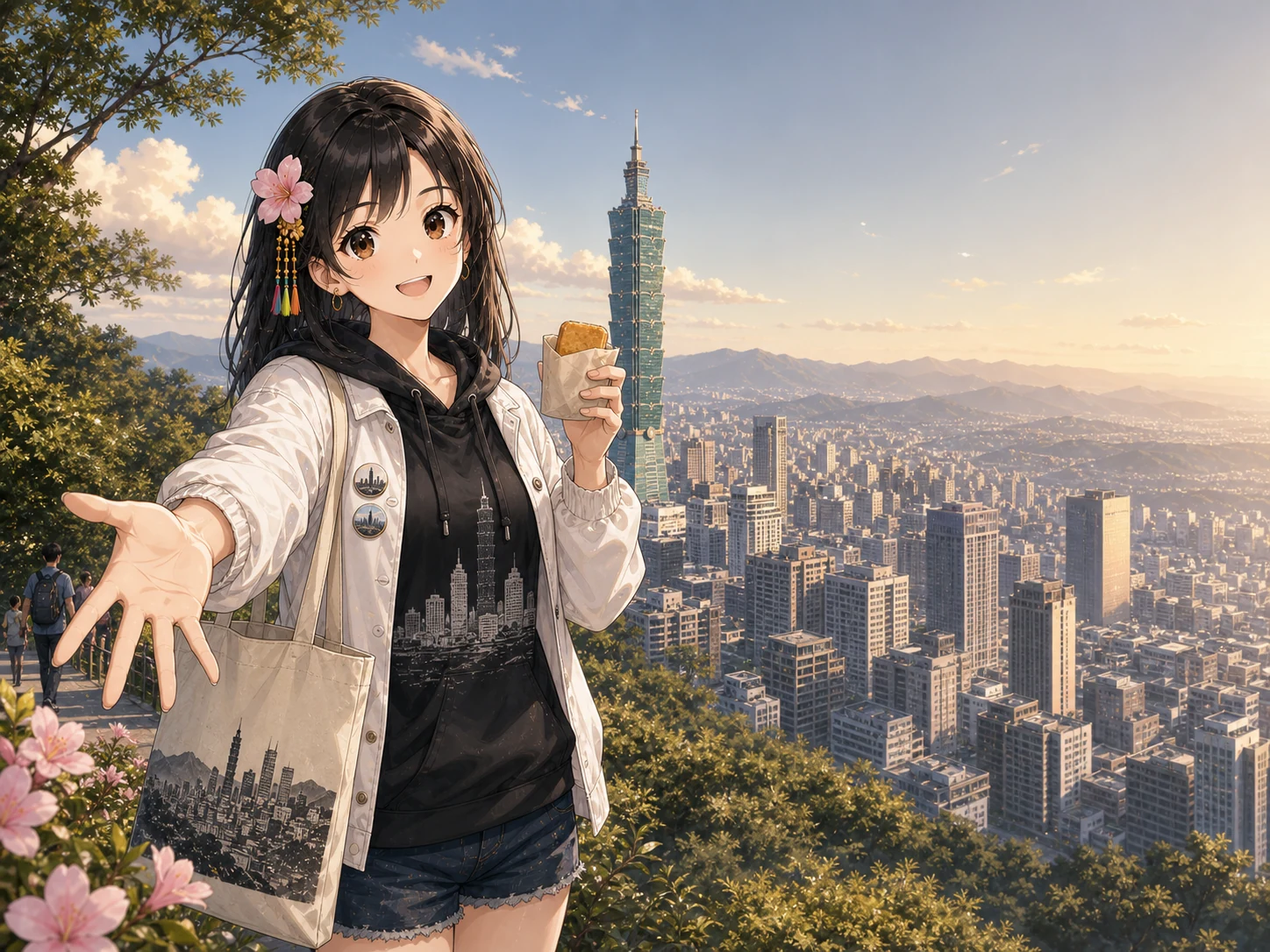
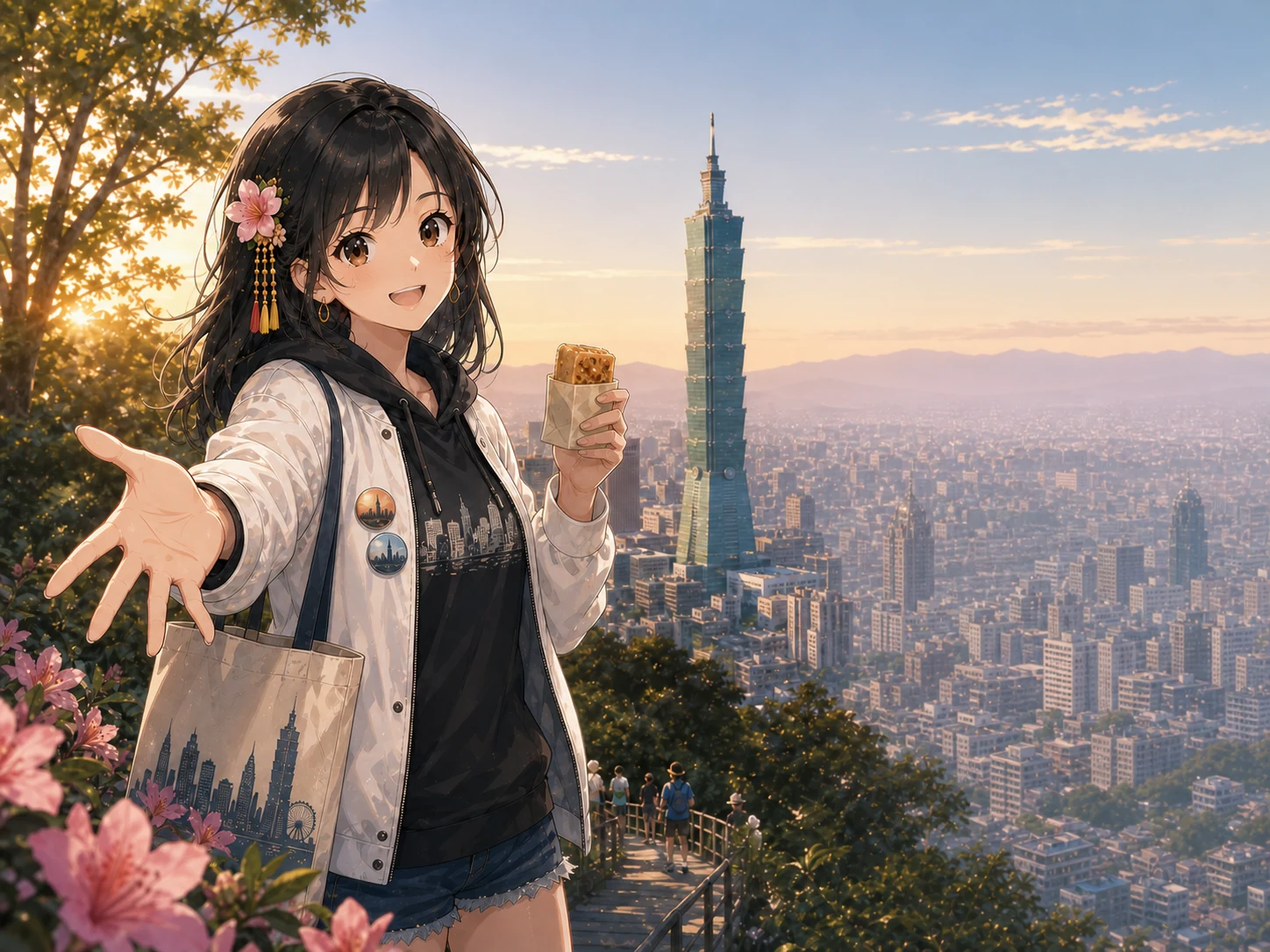
普通版／特別版切換、文字帶漸層重寫、台北與新北右側重生 (#5)
* 網站接上普通版／特別版切換

圖跟資料都做好了，但前端從頭到尾沒接——index.html 裡沒有任何一處提到那三張
特別版底圖，sync_split.py 又刻意把有 culture 的那幾筆濾掉（不然地圖會多出可點區域）。
AGENTS.md 寫著「特別版在網頁上要標明族群名與依據連結」，那條規則一直沒有實作。

sync_split.py 多輸出一份 VARIANTS，鍵是縣市名，帶 base、族名與 culture id。
只有台東、新竹縣、苗栗這三個縣市會有值，其餘 19 個完全不變，地圖仍然 22 區。

海報下方多一列切換（放在圖外面，不疊在畫面上就不會跟文字帶或人物撞到）：

    [ 普通版 ] [ 卑南族 ]

切到特別版時換底圖，並在下方顯示族名、連到 costume.html 對應族群的依據，
以及「尚未經該族群代表或相關單位審閱」。切換鈕直接寫族名而不是「特別版」，
資訊量比較高，而且一眼知道在看哪一族。

切縣市時一律回到普通版，否則會停在上一個縣市的特別版。
分享圖原本寫死抓普通版底圖，改成跟著目前顯示的版本走。

costume.html 每張卡片加 id，並在載入與 hashchange 時展開對應那一族、捲到定位。
沒有這段的話從首頁點過來只會停在頁首，等於還是要自己找。
捲動延後 60ms 才量位置：展開卡片會改變上方卡片的高度，太早量到的是舊版面，
實測會停在半路差 700 多 px。

驗證：三個縣市的切換都會換到正確底圖、依據連結分別指向 #pinuyumayan 與 #hakka；
台南等沒有特別版的縣市不出現切換列也不殘留；costume.html#hakka 直接開啟會展開
客家那張並停在導覽列下方 76px，且只展開一張；無橫向捲軸、無 console error。

* 文字帶改用單層大範圍漸層，台北與新北的右側改成有景深的場景

一、切痕

原本 .split-top::before 與 .split-side::before 各有一塊橢圓遮罩，加 backdrop-filter:blur(7px)。
兩塊橢圓在中間重疊、上下各自收邊，密度不勻；而模糊被遮罩切斷之後，
「糊」與「清晰」在遮罩邊界斷開，那是一條看得見的弧線。

改成 .split::after 一整片、只用漸層、不做模糊。橫向 28% 起、右緣最濃 0.78，
縱向上下都收到完全透明，並用 smoothstep 而不是線性——線性在起點有斜率突變，
眼睛會讀成一道淡邊，smoothstep 端點斜率為 0。實測每像素最大變化 0.235 灰階，
遠低於 1，不會有帶狀。沒有模糊就沒有糊／清晰的邊界可看。

濃度 0.78 是量出來的：25 張裡 22 張的文字對比達標（大字 3.0／內文 4.5），
剩新竹市 4.50、台南 4.42、彰化 3.62，都是最差 5% 的像素，中位數在 10 以上。
0.62 會讓彰化掉到 2.93。

二、右側是要設計的區域

補了右側結構下限之後，我照著那個數字挑候選，結果從「太空」擺盪到「太吵」：
台北變成一整片大小相近、對比相同的水泥方盒鋪到右緣。

想加「層次」指標，量了才發現量不出來——台北（醜）與彰化、苗栗（好看）的
上下半細節數字幾乎一樣。醜不醜是構圖不是數值，再發明一個數字就是第四次犯同一個錯。

真正的差別是：好看的那幾張都寫了逐縣市 right_zone_desc，醜的吃通用預設，
而通用預設寫的是「凡是那個視點看得到的東西」——那句話的意思就是隨便填。
[…]

diff --git a/index.html b/index.html
@@ -470,18 +470,41 @@ section:has(>.hero){overflow-x:clip}
    再加白只會多一塊白斑；把那一小片背景糊掉才是對症。
    輕微的 brightness 與淡白底負責把對比再拉開一點，遮罩讓四邊自然消失，
    模糊池不會有可見的方框。 */
-.split-top::before,.split-side::before{content:"";position:absolute;
-  inset:-14% -12%;z-index:-1;pointer-events:none;
-  -webkit-backdrop-filter:blur(7px) brightness(1.07);
-  backdrop-filter:blur(7px) brightness(1.07);
-  background:rgba(249,252,254,.4);
-  /* 橢圓中心貼右緣：模糊在右側維持全強度，直接跑出海報邊界，
-     那一側就沒有界線可看。置中的遮罩會在右邊留一道「糊→清晰」的接縫，
-     西螺大橋橫跨過去時特別明顯。 */
-  -webkit-mask-image:radial-gradient(100% 50% at 96% 50%,
-    #000 0%,#000 46%,rgba(0,0,0,.5) 78%,transparent 100%);
-  mask-image:radial-gradient(100% 50% at 96% 50%,
-    #000 0%,#000 46%,rgba(0,0,0,.5) 78%,transparent 100%)}
+/* 文字帶的底。原本是兩塊各自的橢圓遮罩（.split-top 與 .split-side 各一個），
+   兩個橢圓在中間重疊、上下又各自收邊，密度不均，接縫看得出來。
+   而且用了 backdrop-filter:blur —— 遮罩切到哪裡，「糊」與「清晰」就在那裡斷開，
+   有橫向物件穿過去時特別明顯（西螺大橋那張）。
+
+   改成整片一層、只用漸層、不做模糊：
+   - 一層而不是兩層，中間不會有重疊造成的濃淡
+   - 橫向從 32% 才開始起漸層，到右緣才最濃，跨度夠長就看不出起點
+   - 上下再用一層 mask 讓它在畫面上下緣淡出，避免壓到天空與前景的邊
+   - 不用 blur：沒有模糊就沒有「糊/清晰」的邊界可看 */
+.split::after{content:"";position:absolute;inset:0;z-index:0;pointer-events:none;
+  /* 橫向：起點與終點的斜率都是 0（smoothstep），所以漸層開始的地方沒有起始線。
+     線性漸層在起點會有斜率突變，眼睛會把那裡讀成一道淡淡的邊。 */
+  background:linear-gradient(to right,
+    rgba(250,253,255,0.000) 28%,
+    rgba(250,253,255,0.027) 36%,
+    rgba(250,253,255,0.098) 44%,
+    rgba(250,253,255,0.202) 52%,
+    rgba(250,253,255,0.325) 60%,
+    rgba(250,253,255,0.455) 68%,
+    rgba(250,253,255,0.578) 76%,
+    rgba(250,253,255,0.682) 84%,
+    rgba(250,253,255,0.753) 92%,
+    rgba(250,253,255,0.780) 100%);
+  /* 縱向：上下都收到完全透明，一樣用 smoothstep 收邊，跟原圖無縫接上 */
+  -webkit-mask-image:linear-gradient(to bottom,
+    rgba(0,0,0,0) 0%,rgba(0,0,0,.104) 2%,rgba(0,0,0,.352) 4%,
+    rgba(0,0,0,.648) 6%,rgba(0,0,0,.896) 8%,#000 10%,
+    #000 86%,rgba(0,0,0,.896) 89%,rgba(0,0,0,.648) 92%,
+    rgba(0,0,0,.352) 94%,rgba(0,0,0,.104) 97%,rgba(0,0,0,0) 100%);
+  mask-image:linear-gradient(to bottom,
+    rgba(0,0,0,0) 0%,rgba(0,0,0,.104) 2%,rgba(0,0,0,.352) 4%,
+    rgba(0,0,0,.648) 6%,rgba(0,0,0,.896) 8%,#000 10%,
+    #000 86%,rgba(0,0,0,.896) 89%,rgba(0,0,0,.648) 92%,
+    rgba(0,0,0,.352) 94%,rgba(0,0,0,.104) 97%,rgba(0,0,0,0) 100%)}
 .split-top,.split-side{z-index:1}
 .split-side{position:absolute;right:3.4%;top:20%;width:37%;
   display:flex;flex-direction:column;gap:2.2cqw;
@@ -519,7 +542,7 @@ section:has(>.hero){overflow-x:clip}
   .split{position:static;container-type:normal;
     background:linear-gradient(180deg,#f8fbfe,#e9f2f9);
     padding:.9rem 1.05rem 4rem}   /* 下方預留切換鈕的位置（鈕 42px＋上下間隙） */
-  .split-top::before,.split-side::before{display:none}
+  .split::after{display:none}          /* 手機文字在圖外，不需要這層 */
   .split-top{position:static;width:auto;text-align:left;
     display:flex;align-items:baseline;gap:.65rem}
   .split-top h3{font-size:1.35rem}
@@ -551,6 +574,22 @@ section:has(>.hero){overflow-x:clip}
 .poster .pending svg{width:64px;height:64px;justify-self:center;opacity:.55;
   animation:float 5s ease-in-out infinite}
 /* 拆分版的下載按鈕。原圖是創作素材不是成品，所以不開燈箱，直接給檔案 */
+/* 版本切換。只有台東、新竹縣、苗栗這三個有特別版的縣市會出現。 */
+.editions{margin-top:.9rem}
+.editions[hidden]{display:none}
+.edtabs{display:inline-flex;gap:.2rem;padding:.22rem;border-radius:999px;
+  background:rgba(8,32,58,.72);border:1px solid rgba(191,234,245,.18)}
+.edtabs button{font:inherit;font-size:.78rem;font-weight:600;letter-spacing:.08em;
+  padding:.34rem 1rem;border-radius:999px;color:#bcd8ea;transition:.15s}
+.edtabs button:hover{color:var(--cream)}
+.edtabs button[aria-selected="true"]{background:rgba(243,195,87,.18);color:var(--gold);
+  box-shadow:inset 0 0 0 1px rgba(243,195,87,.45)}
+.edbasis{margin-top:.5rem;font-size:.78rem;line-height:1.8;color:#9fc4dc}
+.edbasis[hidden]{display:none}
+.edbasis b{color:var(--cream);font-weight:600}
+.edbasis a{color:var(--surf)}
+.edbasis a:hover{color:var(--gold)}
+
 .acts{display:flex;align-items:center;gap:.6rem;margin-top:.9rem;flex-wrap:wrap}
 .acts[hidden]{display:none}
 .acts button{font:inherit;font-size:.82rem;font-weight:600;letter-spacing:.12em;cursor:pointer;
@@ -910,6 +949,10 @@ section:has(>.hero){overflow-x:clip}
         </div>
       </div>
       </div>
+      <div class="editions" id="dEditions" hidden>
+        <div class="edtabs" id="dEdTabs" role="tablist" aria-label="版本"></div>
+        <p class="edbasis" id="dEdBasis" hidden></p>
+      </div>
       <div class="acts" id="dActs" hidden>
         <button id="dlShare">下載社群方形圖</button>
         <button id="dlRaw" class="ghost">下載原圖</button>
@@ -1032,6 +1075,9 @@ const SEA_LBL=new Set(["基隆市","新竹市","嘉義市"]);
 /* pick() 在載入時就會執行並寫入 CUR，宣告必須在它之前，否則 TDZ 會中斷整段腳本 */
 let CUR=null;
 const SPLIT={"基隆市": {"b": "keelung-base", "places": ["基隆嶼", "和平島", "潮境公園"], "foods": ["廟口小吃", "吉古拉", "基隆豆干"], "traits": ["海派", "浪漫", "念舊"], "quote": "基隆，永遠是我們的靠山，也是我們的起點。"}, "台北市": {"b": "taipei-base", "places": ["台北101", "陽明山", "北投溫泉"], "foods": ["士林夜市", "鳳梨酥", "貓空鐵觀音"], "traits": ["多元", "包容", "講究"], "quote": "未來，每天都在這裡發生。"}, "新北市": {"b": "new-taipei-base", "places": ["野柳", "淡水", "烏來"], "foods": ["萬里蟹", "貢寮鮑", "金山地瓜"], "traits": ["實在", "勤懇", "山海兼容"], "quote": "我的新北，我驕傲。"}, "桃園市": {"b": "taoyuan-base", "places": ["拉拉山", "石門水庫", "大溪老街"], "foods": ["大溪豆干", "石門活魚", "忠貞米干"], "traits": ["移民城市", "有拼勁", "多族群"], "quote": "桃園是連結世界的門戶，也是充滿活力的家鄉。"}, "新竹市": {"b": "hsinchu-city-base", "places": ["十八尖山", "南寮漁港", "新竹都城隍廟"], "foods": ["新竹米粉", "貢丸", "竹塹餅"], "traits": ["務實", "低調", "有遠見"], "quote": "風起新竹，智領未來。"}, "新竹縣": {"b": "hsinchu-county-base", "places": ["內灣老街", "北埔老街", "司馬庫斯"], "foods": ["客家擂茶", "粄條", "東方美人茶"], "traits": ["客家硬頸", "念祖", "勤儉"], "quote": "務實創新，用知識改變世界。"}, "宜蘭縣": {"b": "yilan-base", "places": ["龜山島", "太平山", "冬山河"], "foods": ["三星蔥", "鴨賞", "宜蘭牛舌餅"], "traits": ["純淨", "慢活", "樂天"], "quote": "以謙遜的心，過簡單的生活。"}, "苗栗縣": {"b": "miaoli-base", "places": ["南庄老街", "三義木雕村", "火炎山"], "foods": ["大湖草莓", "客家小炒", "苗栗粄條"], "traits": ["客家魂", "山城心", "人情味"], "quote": "有山有海，有客家文化。"}, "台中市": {"b": "taichung-base", "places": ["高美濕地", "台中國家歌劇院", "宮原眼科"], "foods": ["珍珠奶茶", "太陽餅", "逢甲夜市"], "traits": ["溫暖", "努力", "有品味"], "quote": "在傳統與現代之間，走出屬於自己的步調。"}, "彰化縣": {"b": "changhua-base", "places": ["鹿港老街", "八卦山大佛", "扇形車庫"], "foods": ["彰化肉圓", "爌肉飯", "王功蚵仔"], "traits": ["樸實", "勤儉", "重傳承"], "quote": "腳踏實地，代代傳承。"}, "南投縣": {"b": "nantou-base", "places": ["日月潭", "清境農場", "合歡山"], "foods": ["凍頂烏龍茶", "南投意麵", "竹山番薯"], "traits": ["誠實", "勤奮", "和諧"], "quote": "山水之間，就是我們的家。"}, "雲林縣": {"b": "yunlin-base", "places": ["北港朝天宮", "西螺大橋", "劍湖山"], "foods": ["古坑咖啡", "雲林花生", "西螺醬油"], "traits": ["腳踏實地", "好客", "有責任感"], "quote": "風起雲湧，農業首都。"}, "嘉義市": {"b": "chiayi-city-base", "places": ["檜意森活村", "文化路夜市", "射日塔"], "foods": ["火雞肉飯", "林聰明沙鍋魚頭", "方塊酥"], "traits": ["慢慢來", "重人情", "講義氣"], "quote": "不喜歡說大話，但我們做得到。"}, "嘉義縣": {"b": "chiayi-county-base", "places": ["阿里山", "奮起湖老街", "東石漁人碼頭"], "foods": ["阿里山高山茶", "東石鮮蚵", "梅山茶"], "traits": ["純樸", "堅持", "誠懇"], "quote": "勇敢，踏實，向前行。"}, "台南市": {"b": "tainan-base", "places": ["赤崁樓", "安平古堡", "七股鹽山"], "foods": ["台南牛肉湯", "擔仔麵", "虱目魚"], "traits": ["古都風華", "慢活", "重人情"], "quote": "台南是我們的驕傲，也是我們的日常。"}, "高雄市": {"b": "kaohsiung-base", "places": ["西子灣", "蓮池潭", "旗津"], "foods": ["丹丹漢堡", "木瓜牛奶", "旗山香蕉冰"], "traits": ["熱情", "豪爽", "打拚"], "quote": "海風鹹鹹，人情暖暖，高雄是咱的家。"}, "屏東縣": {"b": "pingtung-base", "places": ["墾丁國家公園", "東港大鵬灣", "佳樂水"], "foods": ["東港黑鮪魚", "萬巒豬腳", "恆春綠豆蒜"], "traits": ["樂天", "純樸", "包容"], "quote": "山海相擁，人情溫暖。"}, "花蓮縣": {"b": "hualien-base", "places": ["太魯閣峽谷", "清水斷崖", "七星潭"], "foods": ["瑞穗文旦", "洛神花", "金針花"], "traits": ["純淨", "自由", "堅韌"], "quote": "我們以自然為家。"}, "台東縣": {"b": "taitung-base", "places": ["三仙台", "伯朗大道", "知本溫泉"], "foods": ["台東釋迦", "池上米", "鹿野紅烏龍"], "traits": ["包容", "自由", "樂觀"], "quote": "台東是旅行的目的地，更是心靈的歸屬地。"}, "澎湖縣": {"b": "penghu-base", "places": ["雙心石滬", "七美藍洞", "澎湖天后宮"], "foods": ["小管麵線", "仙人掌冰", "花枝丸"], "traits": ["熱情", "團結", "勇敢"], "quote": "風大心暖，澎湖囡仔人情甘甜。"}, "金門縣": {"b": "kinmen-base", "places": ["莒光樓", "翟山坑道", "風獅爺"], "foods": ["金門貢糖", "廣東粥", "金門高粱酒"], "traits": ["堅毅", "重情", "守護"], "quote": "風很硬，心很暖，我們守著家園，也迎接世界。"}, "連江縣": {"b": "lienchiang-base", "places": ["芹壁聚落", "北海坑道", "大坵島"], "foods": ["繼光餅", "老酒麵線", "馬祖淡菜"], "traits": ["堅毅", "團結", "守望"], "quote": "風浪淬鍊，山海相依。"}};
+/* 特別版：有 culture 欄的那些造型。鍵是縣市名，沒有特別版的縣市不會出現在這裡。
+   由 tools/sync_split.py 產生，不要手改。 */
+const VARIANTS={"台東縣": [{"b": "taitung-pinuyumayan-base", "label": "卑南族", "culture": "pinuyumayan"}], "新竹縣": [{"b": "hsinchu-county-hakka-base", "label": "客家", "culture": "hakka"}], "苗栗縣": [{"b": "miaoli-hakka-base", "label": "客家", "culture": "hakka"}]};
 const NUDGE={"基隆市":[86,-40],"台北市":[2,-74],"新竹市":[-128,-30],"嘉義市":[-150,-30]};
 /* 由北到南排：連江(馬祖) 26.2°N → 金門 24.4°N → 澎湖 23.6°N */
 const INSET={matsu:"連江縣",kinmen:"金門縣",penghu:"澎湖縣"};
@@ -1156,6 +1202,7 @@ function pick(name,scroll){
   document.getElementById("dPendName").textContent=r.n+"的代表還在路上";
   document.getElementById("deckPos").textContent=(i+1)+" / "+R.length;
   CUR=r;                       // 無條件更新，否則切到非拆分版時會停在前一個縣市
+  ED=null;                     // 換縣市一律回到普通版，否則會停在上一個縣市的特別版
   const sp=SPLIT[r.n];
   document.getElementById("dSplit").hidden=!sp;
   document.getElementById("dActs").hidden=!sp;
@@ -1170,6 +1217,7 @@ function pick(name,scroll){
     document.getElementById("dTopEn").textContent=r.en;
     document.getElementById("dQuote").textContent=sp.quote||"";
   }
+  drawEditions(r);
   if(sp||r.s){
     swapPoster("img/"+(sp?sp.b:r.s)+".webp",
       sp ? r.n+"代表角色：背景與人物"
@@ -1178,6 +1226,39 @@ function pick(name,scroll){
     dImg.hidden=true; dPend.hidden=false;
   }
   if(scroll) document.getElementById("explore").scrollIntoView({behavior:"smooth"});
+}
+
+/* 版本切換：普通版是「阿蕊在這個地方」，特別版是「阿蕊穿某族的服飾」。
+   特別版一定要把族名與依據連結標出來——不標族名等於用一族代表整個縣市，
+   依據藏起來則等於整份 data/costume.json 白做。規則寫在 AGENTS.md 硬規則一之一。 */
+let ED=null;
+
+function drawEditions(r){
+  const box=document.getElementById("dEditions");
+  const tabs=document.getElementById("dEdTabs");
+  const vs=VARIANTS[r.n]||[];
+  const sp=SPLIT[r.n];
+  if(!sp||!vs.length){ box.hidden=true; tabs.innerHTML=""; return; }
+  box.hidden=false;
+  tabs.innerHTML="";
+  const mk=(label,v)=>{
+    const b=document.createElement("button");
+    b.type="button"; b.textContent=label; b.setAttribute("role","tab");
+    b.setAttribute("aria-selected", String((ED&&ED.b)===(v&&v.b)));
+    b.onclick=()=>{ ED=v; drawEditions(r);
+      swapPoster("img/"+((v&&v.b)||sp.b)+".webp",
+        v ? r.n+"："+v.label+"服飾" : r.n+"代表角色：背景與人物", -1); };
+    tabs.appendChild(b);
+  };
+  mk("普通版", null);
+  vs.forEach(v=>mk(v.label, v));
+  const basis=document.getElementById("dEdBasis");
+  if(ED){
+    basis.hidden=false;
+    basis.innerHTML='<b>'+ED.label+'服飾</b>　依據：<a href="costume.html#'+ED.culture+
+      '" target="_blank" rel="noopener">官方與典藏出處</a>　'+
+      '<span>尚未經該族群代表或相關單位審閱</span>';
+  }else{ basis.hidden=true; }
 }
 
 /* 換圖：先把新圖解碼完，再換 src。
@@ -1337,12 +1418,13 @@ document.getElementById("dlRaw").onclick=async()=>{
 
 document.getElementById("dlShare").onclick=async(ev)=>{
   const sp=CUR&&SPLIT[CUR.n]; if(!sp) return;
+  const shareBase=ED?ED.b:sp.b;
   const btn=ev.currentTarget, was=btn.textContent;
   btn.disabled=true; btn.textContent="產生中…";
   try{
   const S=1080, cv=document.createElement("canvas"); cv.width=cv.height=S;
   const g=cv.getContext("2d");
-  const art=await loadImg("img/"+sp.b+".webp");
+  const art=await loadImg("img/"+shareBase+".webp");
   const side=Math.min(art.width,art.height);
   const sx=Math.max(0,Math.min(art.width-side,art.width*0.26-side/2));
   g.drawImage(art,sx,0,side,side,0,0,S,S);

diff --git a/costume.html b/costume.html
@@ -313,6 +313,7 @@ function render(){
     <article class="gapitem"><h3>${esc(p.name)}</h3><p>${esc(p.gaps)}</p></article>`).join('');
 
   drawGrid();
+  openFromHash();
 }
 
 function srcLink(id){
@@ -337,7 +338,7 @@ function drawGrid(){
     const thin = !p.male.length && !p.female.length;
     const mat = [...(p.material.traditional||[]), ...(p.material.later||[])];
     return `
-    <details class="card">
+    <details class="card" id="${esc(p.id)}">
       <summary>
         <h3>${esc(p.name)}<span>${esc(p.en)}</span></h3>
         <div class="tags">
@@ -379,6 +380,26 @@ document.querySelectorAll('.chip').forEach(b => b.addEventListener('click', () =
 document.getElementById('area').addEventListener('change', e => {
   filterArea = e.target.value; drawGrid();
 });
+
+// 首頁的特別版會連過來（costume.html#pinuyumayan），直接展開那一族並捲到定位。
+// 沒有這段的話點過來只會停在頁首，等於還是要自己找。
+function openFromHash(){
+  const id = decodeURIComponent(location.hash.slice(1));
+  if (!id) return;
+  const card = document.getElementById(id);
+  if (!card) return;
+  card.open = true;
+  // 卡片剛展開、版面還沒定下來就捲會捲不動（實測 scrollY 停在 0）。
+  // 等一個 frame，並直接算絕對位置，不用 scrollIntoView 再 scrollBy 兩段——
+  // 那兩段會被 html{scroll-behavior:smooth} 的動畫互相打斷。
+  // 60ms 而不是一個 frame：展開卡片會改變它上方那些卡片的高度，
+  // 太早量到的位置是舊版面的，換 hash 時會停在半路（實測差 700 多 px）。
+  setTimeout(() => {
+    const y = card.getBoundingClientRect().top + window.scrollY - 76;  // 讓開 sticky 導覽列
+    window.scrollTo({top: Math.max(0, y), behavior: 'auto'});
+  }, 60);
+}
+window.addEventListener('hashchange', openFromHash);
 </script>
 </body>
 </html>

diff --git a/tools/sync_split.py b/tools/sync_split.py
@@ -17,6 +17,19 @@ split = {
                 "traits": c["traits"], "quote": c["quote"]}
     for c in d["counties"] if c.get("base") and not c.get("culture")
 }
+# 特別版：有 culture 欄的那些造型，掛在所屬縣市底下。
+# 這裡刻意帶出 culture 的 id 與族名——網頁上必須標明是哪一族並連到依據，
+# 不標族名等於用一族代表整個縣市（AGENTS.md 硬規則一之一）。
+costume = json.loads((ROOT / "data" / "costume.json").read_text(encoding="utf-8"))
+peoples = {x["id"]: x for x in costume["peoples"]}
+variants = {}
+for c in d["counties"]:
+    if not c.get("culture") or not c.get("base"):
+        continue
+    p_ = peoples.get(c["culture"])
+    variants.setdefault(c["county"], []).append(
+        {"b": c["base"], "label": (p_ or {}).get("name", c["culture"]), "culture": c["culture"]})
+
 p = ROOT / "index.html"
 s = p.read_text(encoding="utf-8")
 s2, n = re.subn(r"const SPLIT=\{.*?\};\n",
@@ -33,5 +46,12 @@ s2, m = re.subn(r"const HAIR_FLOWERS=\[.*?\];",
                 s2, count=1, flags=re.S)
 assert m == 1, "在 index.html 找不到 HAIR_FLOWERS 常數"
 
+s2, k = re.subn(r"const VARIANTS=\{.*?\};\n",
+                "const VARIANTS=" + json.dumps(variants, ensure_ascii=False) + ";\n",
+                s2, count=1, flags=re.S)
+assert k == 1, "在 index.html 找不到 VARIANTS 常數"
+
 p.write_text(s2, encoding="utf-8")
 print(f"已同步 {len(split)} 個縣市與 {len(flowers)} 筆髮花：{'、'.join(split)}")
+print(f"特別版 {sum(len(v) for v in variants.values())} 筆："
+      + "；".join(f"{k}→" + "、".join(x["label"] for x in v) for k, v in variants.items()))

diff --git a/AGENTS.md b/AGENTS.md
@@ -318,7 +318,68 @@ python3 tools/build_prompt.py 高雄市
 **新竹市那張是目視抓到的，量測給它通過**（0.0257，有內容）。
 量測永遠不會問「這個場景成立嗎」——那一題只能用眼睛。
 
-### 縮圖上的判斷不算數，服裝細節一律放大看
+### 右側是要設計的區域，不是拿東西填滿
+
+補了右側結構下限之後，我照著那個數字去挑候選，結果從「太空」直接擺盪到「太吵」：
+台北那張的右側變成一整片大小相近、對比相同的水泥方盒，一路鋪到右緣，沒有隨距離變淡。
+使用者的評語是「看起來未經設計，隨便填了海或房子給我」。
+
+我第一個念頭是再加一個「層次」指標。量了才發現量不出來：
+
+| | 上半（文字帶）細節 | 下半細節 |
+|---|---|---|
+| 台北（醜） | 0.0045 | 0.0989 |
+| 彰化（好看） | 0.0054 | 0.0616 |
+| 苗栗（好看） | 0.0090 | 0.0735 |
+
+數字幾乎一樣。**醜不醜跟這些統計無關，那是構圖，不是數值。**
+再發明一個我自己想得到的數字，就是第四次犯同一個錯。
+
+真正的差別在於：好看的那幾張右側**有一個明確的主體**（紅磚屋脊層層退去、火炎山礫岩配溪床），
+醜的那幾張是一整片同質材質。而查下去發現，好看的那幾張正好都寫了逐縣市的
+`right_zone_desc`，醜的那幾張吃的是通用預設——而通用預設寫的是：
+
+> the right 40 percent ... whatever genuinely belongs at this viewpoint
+
+**「凡是那個視點看得到的東西」，意思就是「隨便填」。** 構圖決策被丟給模型了。
+
+所以做法是逐縣市寫 `right_zone_desc`，講清楚**那裡是什麼、由近到遠分成哪幾層、
+哪一層最淡**。台北與新北照這個寫法重生之後，0.0038→0.0314、0.0051→0.0312，
+而且目視是有景深順序的城市與海，不是同質材質。
+
+目前只有 6 個縣市寫了（新竹市、彰化、南投、花蓮、台北、新北），其餘 16 個仍吃通用預設。
+
+## 文字帶的底：一層漸層，不要模糊
+
+原本 `.split-top::before` 與 `.split-side::before` 各有一塊橢圓遮罩，加 `backdrop-filter:blur(7px)`。
+兩個問題：
+
+- **兩塊橢圓**在中間重疊（濃度加倍）、上下各自收邊，密度不勻
+- **模糊被遮罩切斷**：遮罩邊界在哪，「糊」與「清晰」就在哪斷開，那是一條看得見的弧線
+
+改成 `.split::after` 一整片、只用漸層、不做模糊：
+
+- 橫向 28% 起、右緣最濃 0.78；縱向上下都收到完全透明
+- 用 smoothstep 而不是線性。線性在起點有斜率突變，眼睛會讀成一道淡邊；
+  smoothstep 端點斜率為 0。實測每像素最大變化 0.235 灰階，遠低於 1，不會有帶狀
+- **沒有模糊就沒有糊／清晰的邊界可看**
+
+濃度 0.78 是量出來的：25 張裡 22 張的文字對比達標（大字 3.0／內文 4.5），
+剩新竹市 4.50、台南 4.42、彰化 3.62，都是最差 5% 的像素，中位數在 10 以上。
+0.62 會讓彰化掉到 2.93。
+
+## 桌機版面重現得出來，別誤判成環境限制
+
+我一度回報「這個環境視窗鎖在 500px，桌機版面重現不出來」，那是錯的。
+`resize_page` 改不動視窗，但 `emulate` 設 viewport 就可以：
+
+```
+mcp__chrome-devtools__emulate  viewport: 1600x1000x1
+```
+
+**工具用錯不等於做不到。** 說「做不到」之前先換一個工具試。
+
+## 縮圖上的判斷不算數，服裝細節一律放大看
 
 這一輪我在縮圖上判斷錯兩次，兩次都是往壞的方向錯：
 
